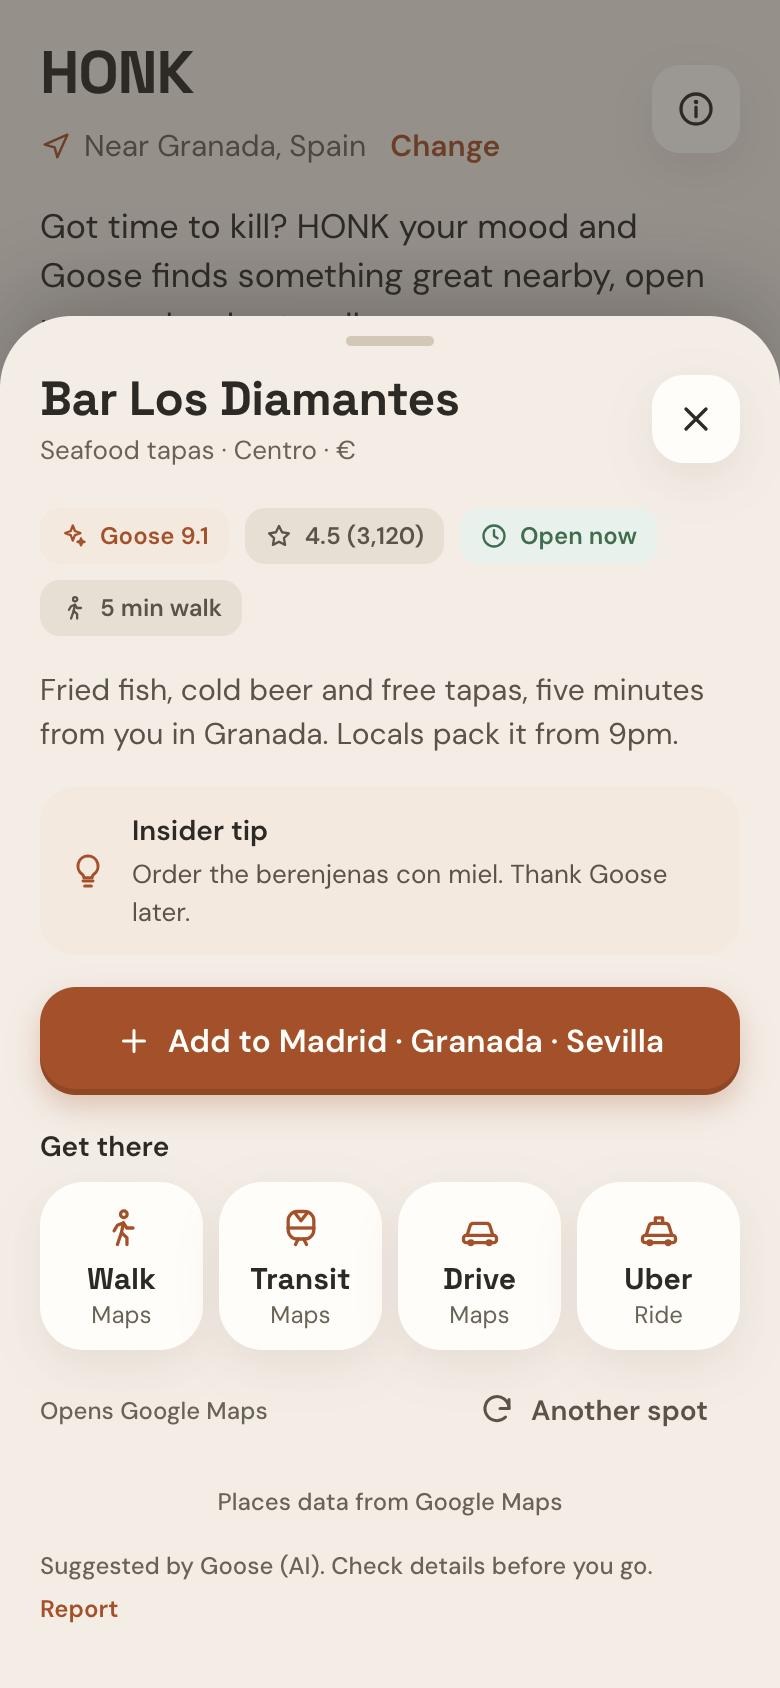
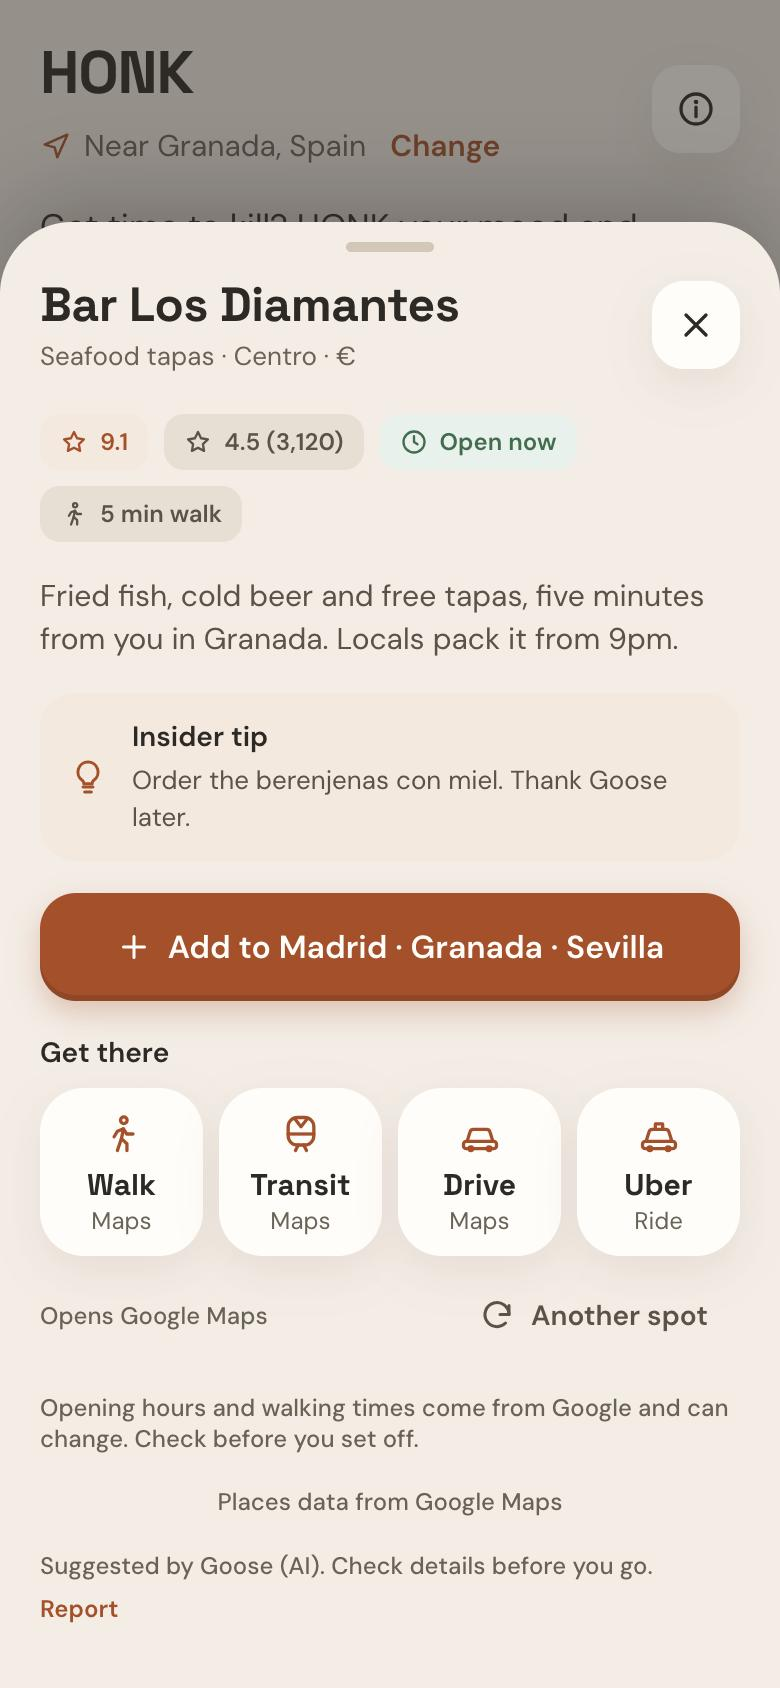
HONK tab: team review fixes
- Moods live in supabase/functions/_shared/honkMoods.js, shared by the app and goosey-discover,
  with scripts/test-honk-moods.mjs (new labels map; every pre-0.20.2 label still maps).
- Screens, toasts and trip detail clear the raised HONK button (--nav-raise).
- Profile "Guide and FAQ" is now "Help and FAQ", so it doesn't clash with the Guide tab.
- HONK result: a line saying hours and walk times come from Google; the Goose rating chip is
  back to its plain form (kept apart from the Goose score).
- Tour copy no longer promises "open now". The tour's HONK frame ripples the tapped chip
  instead of covering its label.
- data-tour hooks on the HONK mood grid, location and result, and on the Guide tiles (#79).
- Help group renamed to "Guide and HONK".

Changed region(s): [[0.0, 0.1232, 1.0, 0.8009], [0.0615, 0.8318, 0.9231, 0.8626]]

diff --git a/src/screens/explore/HonkView.jsx b/src/screens/explore/HonkView.jsx
@@ -18,17 +18,8 @@ import { tripsForPlace, saveIdeaTo, moveIdea, createTripAndSave } from './saveId
 import { suggestForPlace } from '../../lib/tripPick'
 import TripPickerSheet from '../../components/shared/TripPickerSheet'
 import { useTripsStore, useIdeasStore, tripForCity } from '../../store'
+import { MOODS } from '../../../supabase/functions/_shared/honkMoods.js'
 import './explore.css'
-
-// Six moods that pull up different things. `label` is also the key goosey-discover maps to a Google search.
-const MOODS = [
-  { id: 'hungry',  label: 'Feed me',       hint: 'Local favourites and street eats',         icon: 'restaurant', tone: 'accent' },
-  { id: 'wow',     label: 'Wow me',        hint: 'Views, landmarks and hidden gems',         icon: 'compass',    tone: 'sun' },
-  { id: 'culture', label: 'Culture fix',   hint: 'Museums, galleries, old streets',          icon: 'museum',     tone: 'info' },
-  { id: 'cheap',   label: 'Cheap thrills', hint: 'Free sights and budget bites',             icon: 'currency',   tone: 'success' },
-  { id: 'local',   label: 'Go local',      hint: 'Markets, corner cafés, neighbourhood bars', icon: 'map',        tone: 'danger' },
-  { id: 'night',   label: 'Night out',     hint: 'Bars, live music, late spots',             icon: 'moon',       tone: 'stay' },
-]
 
 function useGeolocation() {
   const [state, setState] = useState({ loading: true, city: null, country: null, error: null, coords: null })
@@ -185,7 +176,7 @@ export default function HonkView() {
           <span className="honk-where">
             <Icon name="navigation" size={16} />
             <span className="honk-where__text">{where}</span>
-            {!asking && !(geo.loading && !manualCity) && <button type="button" className="honk-where__change" onClick={() => setPicking(true)}>Change</button>}
+            {!asking && !(geo.loading && !manualCity) && <button type="button" className="honk-where__change" onClick={() => setPicking(true)} data-tour="honk-where">Change</button>}
           </span>
         )} />
 
@@ -208,7 +199,7 @@ export default function HonkView() {
         <Text variant="body" as="p" className="honk-blurb">Got time to kill? HONK your mood and Goose finds something great nearby, open now and a short walk away.</Text>
       )}
 
-      <div className="honk-moods" role="group" aria-label="Moods">
+      <div className="honk-moods" role="group" aria-label="Moods" data-tour="honk-moods">
         {MOODS.map(m => (
           <button key={m.id} type="button" className={`honk-mood tint-${m.tone}`} onClick={() => handleHonk(m.id)} disabled={asking}>
             <IconTile icon={m.icon} tone={m.tone} size="lg" className="c-tile--solid" />
@@ -223,6 +214,7 @@ export default function HonkView() {
       {sheetOpen && (
         <Sheet onClose={close} title={result?.name || MOODS.find(m => m.id === mood)?.label}
           subtitle={result ? [result.type, result.neighbourhood, result.price_range].filter(Boolean).join(' · ') : null} className="honk-sheet">
+          <div className="honk-sheet__content" data-tour="honk-result">
           {(loading || (queued && !effectiveCity)) && (
             <Loading title={effectiveCity ? `Goose is scouting ${effectiveCity}` : 'Finding where you are'}>Usually under 10 seconds.</Loading>
           )}
@@ -233,7 +225,7 @@ export default function HonkView() {
             <>
               {result.photo && <PlacePhoto name={result.photo} alt={result.name} className="honk-photo" />}
               <Stack row gap={2} wrap>
-                {result.goose_rating && <Chip icon="sparkles" tone="accent" className={honkInk} aria-label={`Goose says: ${result.goose_rating}`}>{`Goose ${result.goose_rating}`}</Chip>}
+                {result.goose_rating && <Chip icon="star" tone="accent" className={honkInk} aria-label={`Goose says: ${result.goose_rating}`}>{result.goose_rating}</Chip>}
                 <GoogleRating rating={result.rating} count={result.rating_count} />
                 {result.open_now && <OpenNow open />}
                 {result.walk_min != null && <Chip icon="walk">{`${result.walk_min} min walk`}</Chip>}
@@ -257,10 +249,12 @@ export default function HonkView() {
                   </Stack>
                 )}
               </Stack>
+              <Text variant="micro" tone="muted" as="p">Opening hours and walking times come from Google and can change. Check before you set off.</Text>
               {result.place_id && <GoogleAttribution />}
               <AiDisclosure city={effectiveCity} what="HONK" />
             </>
           )}
+          </div>
         </Sheet>
       )}
       {pickFor && result && <TripPickerSheet title={pickFor.from ? 'Move to' : 'Save to'} subtitle={result.name} ranked={pickFor.ranked} city={effectiveCity}

diff --git a/supabase/functions/goosey-discover/index.ts b/supabase/functions/goosey-discover/index.ts
@@ -1,30 +1,14 @@
 import "jsr:@supabase/functions-js/edge-runtime.d.ts"
 import { geminiFetch, cap, checkAiQuota, QUOTA_MESSAGE } from '../_shared/gemini.ts'
 import { geocode, searchText, routeOne, withGoogleScope, setGoogleUser, type Place } from '../_shared/google.ts'
+// HONK mood → what to ask Google for (new and pre-0.20.2 labels). Results are open now and walkable from the user.
+import { moodQuery } from '../_shared/honkMoods.js'
 
 const CORS = {
   'Access-Control-Allow-Origin': '*',
   'Access-Control-Allow-Headers': 'authorization, x-client-info, apikey, content-type',
 }
 const json = (body: unknown, status = 200) => new Response(JSON.stringify(body), { status, headers: { ...CORS, 'Content-Type': 'application/json' } })
-
-// HONK mood → what to ask Google for. Results are open now and walkable from the user.
-// The first six are the HONK tab's moods (app 0.20.2+); the rest stay for older app builds.
-const MOOD_QUERY: Record<string, string> = {
-  'Feed me': 'best local restaurants and street food',
-  'Wow me': 'viewpoints landmarks and hidden gems',
-  'Culture fix': 'museums galleries and historic sights',
-  'Cheap thrills': 'free attractions and cheap eats',
-  'Go local': 'local favourite market cafe or neighbourhood bar',
-  'Night out': 'bars live music and nightlife',
-  "I'm hungry": 'best places to eat',
-  'Show me something': 'interesting sights and hidden gems',
-  "I'm bored": 'fun things to do',
-  'Treat myself': 'special treat dessert spa or upscale bar',
-  'On a budget': 'cheap eats and free things to do',
-  'Culture me': 'museums galleries and historic sights',
-  'Be a local': 'local favourite cafe market or neighbourhood bar',
-}
 
 const PRICE = ['free', '$', '$$', '$$$', '$$$$']
 
@@ -138,7 +122,7 @@ Deno.serve(withGoogleScope(async (req) => {
     const origin = gps ? { lat, lng } : await geocode(`${city}, ${country}`)
     let candidates: Candidate[] = []
     if (origin) {
-      const query = `${MOOD_QUERY[mood] || mood}${filters.length ? ` (${filters.join(', ')})` : ''}`
+      const query = `${moodQuery(mood)}${filters.length ? ` (${filters.join(', ')})` : ''}`
       const r = await searchText(query, { openNow: true, minRating: 4.2, near: { lat: origin.lat, lng: origin.lng, radius: 1500 }, pageSize: 20 })
       candidates = (r?.places || [])
         .filter(p => !p.closed && !exclude.includes(p.place_id))

diff --git a/supabase/functions/_shared/honkMoods.js b/supabase/functions/_shared/honkMoods.js
@@ -1,0 +1,29 @@
+// HONK moods, shared by the app (src/screens/explore/HonkView.jsx) and goosey-discover. Plain JS so the app,
+// the Edge Function and scripts/test-honk-moods.mjs all import the same list.
+
+// The HONK tab's six moods (app 0.20.2+). `label` is what the app sends; `id` goes into honk_used.mood.
+export const MOODS = [
+  { id: 'hungry',  label: 'Feed me',       hint: 'Local favourites and street eats',          icon: 'restaurant', tone: 'accent',  query: 'best local restaurants and street food' },
+  { id: 'wow',     label: 'Wow me',        hint: 'Views, landmarks and hidden gems',          icon: 'compass',    tone: 'sun',     query: 'viewpoints landmarks and hidden gems' },
+  { id: 'culture', label: 'Culture fix',   hint: 'Museums, galleries, old streets',           icon: 'museum',     tone: 'info',    query: 'museums galleries and historic sights' },
+  { id: 'cheap',   label: 'Cheap thrills', hint: 'Free sights and budget bites',              icon: 'currency',   tone: 'success', query: 'free attractions and cheap eats' },
+  { id: 'local',   label: 'Go local',      hint: 'Markets, corner cafés, neighbourhood bars', icon: 'map',        tone: 'danger',  query: 'local favourite market cafe or neighbourhood bar' },
+  { id: 'night',   label: 'Night out',     hint: 'Bars, live music, late spots',              icon: 'moon',       tone: 'stay',    query: 'bars live music and nightlife' },
+]
+
+// Moods sent by app builds up to 0.20.1. Keep them until those builds are gone.
+const LEGACY_QUERY = {
+  "I'm hungry": 'best places to eat',
+  'Show me something': 'interesting sights and hidden gems',
+  "I'm bored": 'fun things to do',
+  'Treat myself': 'special treat dessert spa or upscale bar',
+  'On a budget': 'cheap eats and free things to do',
+  'Culture me': 'museums galleries and historic sights',
+  'Night out': 'bars live music and nightlife',
+  'Be a local': 'local favourite cafe market or neighbourhood bar',
+}
+
+// HONK mood label → what to ask Google for. An unknown label is searched as written.
+export const MOOD_QUERY = { ...LEGACY_QUERY, ...Object.fromEntries(MOODS.map(m => [m.label, m.query])) }
+
+export const moodQuery = label => MOOD_QUERY[label] || label

diff --git a/index.html b/index.html
@@ -91,7 +91,7 @@
         <p>Silly Travel Tool turns your booking emails into one itinerary per trip, with the weather for your dates. Share trips, get city guides and nearby picks, and keep currency, phrases and SOS numbers handy.</p>
         <p>Forward a booking confirmation and Silly Travel Tool files it into the right trip, so each trip has one itinerary, day by day, in each place's local time. Flight, hotel, train and reservation bookings sit together, and the weather for your trip dates sits beside them.</p>
         <p>Invite people to a shared trip and everyone plans from the same itinerary. Explore city guides, ask HONK for nearby place picks by mood (it uses your location only when you allow it), and build a packing list for each trip. Keep currency conversion, a translate and phrase book, tip and split, and emergency SOS numbers in the same app, along with your travel documents and loyalty cards, which stay private to you. Earn a Goose score and badges along the way.</p>
-        <p>Read the <a href="/help/">guide and FAQ</a>, the <a href="/privacy/">Privacy Policy</a> or the <a href="/terms/">Terms of Service</a>.</p>
+        <p>Read the <a href="/help/">help and FAQ</a>, the <a href="/privacy/">Privacy Policy</a> or the <a href="/terms/">Terms of Service</a>.</p>
         <noscript><p>Silly Travel Tool needs JavaScript to run the app. Sign in at sillytraveltool.com with it turned on.</p></noscript>
       </main>
     </div>

diff --git a/src/screens/auth/TourArt.jsx b/src/screens/auth/TourArt.jsx
@@ -742,10 +742,7 @@ export function HonkArt() {
           <span className="t-label">What are you in the mood for?</span>
           <div className="tour-chips">
             {['Feed me', 'Wow me', 'Culture fix', 'Cheap thrills', 'Go local', 'Night out'].map((m, k) => (
-              <span key={m} className={cx('c-chip c-chip--neutral', k === 0 && s >= 1 && 'tour-chip--on')}>
-                {m}
-                {k === 0 && s === 1 && <span className="tour-tap tour-tap--static"><span className="tour-tap__ring" /></span>}
-              </span>
+              <span key={m} className={cx('c-chip c-chip--neutral', k === 0 && s >= 1 && 'tour-chip--on', k === 0 && s === 1 && 'tour-chip--tapped')}>{m}</span>
             ))}
           </div>
         </div>
@@ -875,7 +872,7 @@ function ProfileHomeMock() {
       <div className="c-card c-card--group tour-card-flat">
         <MockRow tap="docs" icon="passport" tone="info" title="Travel documents" trailing={<span className="t-caption tone-muted">3</span>} />
         <MockRow tap="loyalty" icon="card" tone="accent" title="Loyalty cards" trailing={<span className="t-caption tone-muted">2</span>} />
-        <MockRow icon="help" tone="success" title="Guide and FAQ" />
+        <MockRow icon="help" tone="success" title="Help and FAQ" />
       </div>
     </>
   )

diff --git a/src/ui/ui.css b/src/ui/ui.css
@@ -51,7 +51,7 @@ h1.tone-inverse, h2.tone-inverse, h3.tone-inverse { color: var(--ink-inverse); }
   flex-direction: column;
   overflow-y: auto;
   overflow-x: hidden;
-  padding: calc(var(--safe-top) + var(--space-5)) var(--space-5) calc(var(--nav-height) + var(--safe-bottom) + var(--space-6));
+  padding: calc(var(--safe-top) + var(--space-5)) var(--space-5) calc(var(--nav-height) + var(--safe-bottom) + var(--nav-raise) + var(--space-4));
   background: var(--surface-page);
   scrollbar-width: none;
   -webkit-overflow-scrolling: touch;
@@ -430,7 +430,7 @@ h1.tone-inverse, h2.tone-inverse, h3.tone-inverse { color: var(--ink-inverse); }
   background: var(--surface-inverse); color: var(--ink-inverse); box-shadow: var(--shadow-inverse);
   animation: c-fade 200ms ease;
 }
-.c-toast--bottom { bottom: calc(var(--nav-height) + var(--safe-bottom) + var(--space-3)); }
+.c-toast--bottom { bottom: calc(var(--nav-height) + var(--safe-bottom) + var(--nav-raise) + var(--space-2)); }
 .c-toast--top { top: calc(var(--safe-top) + var(--space-4)); }
 .c-toast__icon { color: var(--accent-on-inverse); }
 .c-toast__body { flex: 1; min-width: 0; }

diff --git a/src/lib/sectionTours.js b/src/lib/sectionTours.js
@@ -29,7 +29,7 @@ export const SECTION_TOURS = {
   honk: {
     overline: 'About HONK',
     cards: [
-      { icon: 'megaphone', title: 'What is HONK?', body: 'For when you have time to kill and nothing planned. Tap a mood and Goose finds something great a short walk away, open now.' },
+      { icon: 'megaphone', title: 'What is HONK?', body: 'For when you have time to kill and nothing planned. Tap a mood and Goose finds something great a short walk away.' },
       { icon: 'navigation', title: 'Go, or save it', body: 'Add the spot to your trip, or get walking, transit or driving directions in one tap. Not feeling it? Tap Another spot.' },
     ],
   },
@@ -43,7 +43,7 @@ export const SECTION_TOURS = {
     overline: 'About Profile',
     cards: [
       { icon: 'wallet', title: 'Your travel wallet', body: 'Goose score and badges, passports and documents, loyalty cards.' },
-      { icon: 'book', title: 'Guide and FAQ', body: 'How everything works, whenever you need a hand.' },
+      { icon: 'book', title: 'Help and FAQ', body: 'How everything works, whenever you need a hand.' },
     ],
   },
 }

diff --git a/public/help/index.html b/public/help/index.html
@@ -43,7 +43,7 @@
     city guide or ask HONK for nearby picks, and keep currency, phrases and SOS numbers in your pocket.</p>
   </div>
 
-  <ul class="toc"><li><a href="#start">Getting started</a></li><li><a href="#together">Travel together</a></li><li><a href="#explore">Explore a city</a></li><li><a href="#travel">On the trip</a></li><li><a href="#account">Your account</a></li><li><a href="#questions">Questions</a></li></ul>
+  <ul class="toc"><li><a href="#start">Getting started</a></li><li><a href="#together">Travel together</a></li><li><a href="#explore">Guide and HONK</a></li><li><a href="#travel">On the trip</a></li><li><a href="#account">Your account</a></li><li><a href="#questions">Questions</a></li></ul>
 
   <h2 id="start">Getting started</h2>
   <section class="card topic" id="new-trip">
@@ -91,7 +91,7 @@
     
   </section>
 
-  <h2 id="explore">Explore a city</h2>
+  <h2 id="explore">Guide and HONK</h2>
   <section class="card topic" id="guide">
     <h3>City guide</h3>
     <p class="lede">The lowdown, Where to eat, Must-sees, Getting around and What's on for any city.</p>

diff --git a/src/screens/auth/Onboarding.jsx b/src/screens/auth/Onboarding.jsx
@@ -65,7 +65,7 @@ const STEPS = [
   {
     id: 'honk', Art: HonkArt, overline: 'New · HONK',
     title: 'What is HONK?',
-    body: 'Got time to kill and nothing planned? Tap HONK in the middle of the bar, pick a mood, and Goose finds something great a short walk away, open now.',
+    body: 'Got time to kill and nothing planned? Tap HONK in the middle of the bar, pick a mood, and Goose finds something great a short walk away.',
   },
   {
     id: 'tools', Art: ToolsArt, overline: 'Tools',
@@ -75,7 +75,7 @@ const STEPS = [
   {
     id: 'you', Art: YouArt, overline: 'Profile',
     title: 'Your travel wallet',
-    body: 'Goose score and badges, passports and documents, loyalty cards, and the Guide and FAQ whenever you need a hand.',
+    body: 'Goose score and badges, passports and documents, loyalty cards, and the Help and FAQ whenever you need a hand.',
   },
   { id: 'location', Art: LocationArt, firstRunOnly: true },
   { id: 'ai', firstRunOnly: true }, // Apple 5.1.2(i): ask before Goose's AI reads what you send it

diff --git a/src/screens/trips/detail/detail.css b/src/screens/trips/detail/detail.css
@@ -1,5 +1,5 @@
 /* Trip detail: overlay above the tab screen, below the bottom nav */
-.detail { position: fixed; inset: 0; z-index: 99; max-width: var(--app-max); margin: 0 auto; padding-top: calc(var(--safe-top) + var(--space-4)); padding-bottom: calc(var(--nav-height) + var(--safe-bottom) + 96px); }
+.detail { position: fixed; inset: 0; z-index: 99; max-width: var(--app-max); margin: 0 auto; padding-top: calc(var(--safe-top) + var(--space-4)); padding-bottom: calc(var(--nav-height) + var(--safe-bottom) + var(--nav-raise) + 96px); }
 .detail-bar { display: flex; align-items: center; justify-content: space-between; gap: var(--space-2); }
 .detail-status { margin-top: var(--space-1); }
 .detail-tabs { position: sticky; top: calc(-1 * var(--space-4)); z-index: 5; margin: 0 calc(-1 * var(--space-5)); padding: var(--space-2) var(--space-5); background: var(--surface-page); }

diff --git a/src/screens/auth/tour.css b/src/screens/auth/tour.css
@@ -352,7 +352,10 @@ button.tour-now { cursor: pointer; }
 
 .tour-honk__top { min-height: 120px; }
 .tour-honk__card { flex: 1; justify-content: center; }
-.tour-honk .tour-chips .c-chip { position: relative; }
+/* A tapped chip ripples around its edge, so the tap never covers its label */
+.tour-chip--tapped { animation: tour-chip-tap 0.7s ease-out 0.15s both; }
+@keyframes tour-chip-tap { from { box-shadow: 0 0 0 0 var(--accent); } to { box-shadow: 0 0 0 10px transparent; } }
+@media (prefers-reduced-motion: reduce) { .tour-chip--tapped { animation: none; } }
 .tour-tap--static { left: 50%; top: 50%; }
 .tour-honk__actions { display: flex; align-items: center; justify-content: space-between; gap: var(--space-3); }
 .tour-honk__actions .tour-btn { margin-top: 0; flex: 1; }

diff --git a/src/lib/helpContent.js b/src/lib/helpContent.js
@@ -5,7 +5,7 @@
 export const HELP_GROUPS = [
   { id: 'start', title: 'Getting started' },
   { id: 'together', title: 'Travel together' },
-  { id: 'explore', title: 'Explore a city' },
+  { id: 'explore', title: 'Guide and HONK' },
   { id: 'travel', title: 'On the trip' },
   { id: 'account', title: 'Your account' },
 ]
@@ -220,7 +220,7 @@ export const HELP_FAQ = [
   },
   {
     q: 'How do I replay the tour?',
-    a: 'Tap Take the tour at the top of this Guide and FAQ, or in Profile.',
+    a: 'Tap Take the tour at the top of this Help and FAQ, or in Profile.',
   },
   {
     q: 'Something isn\'t working. How do I tell you?',
